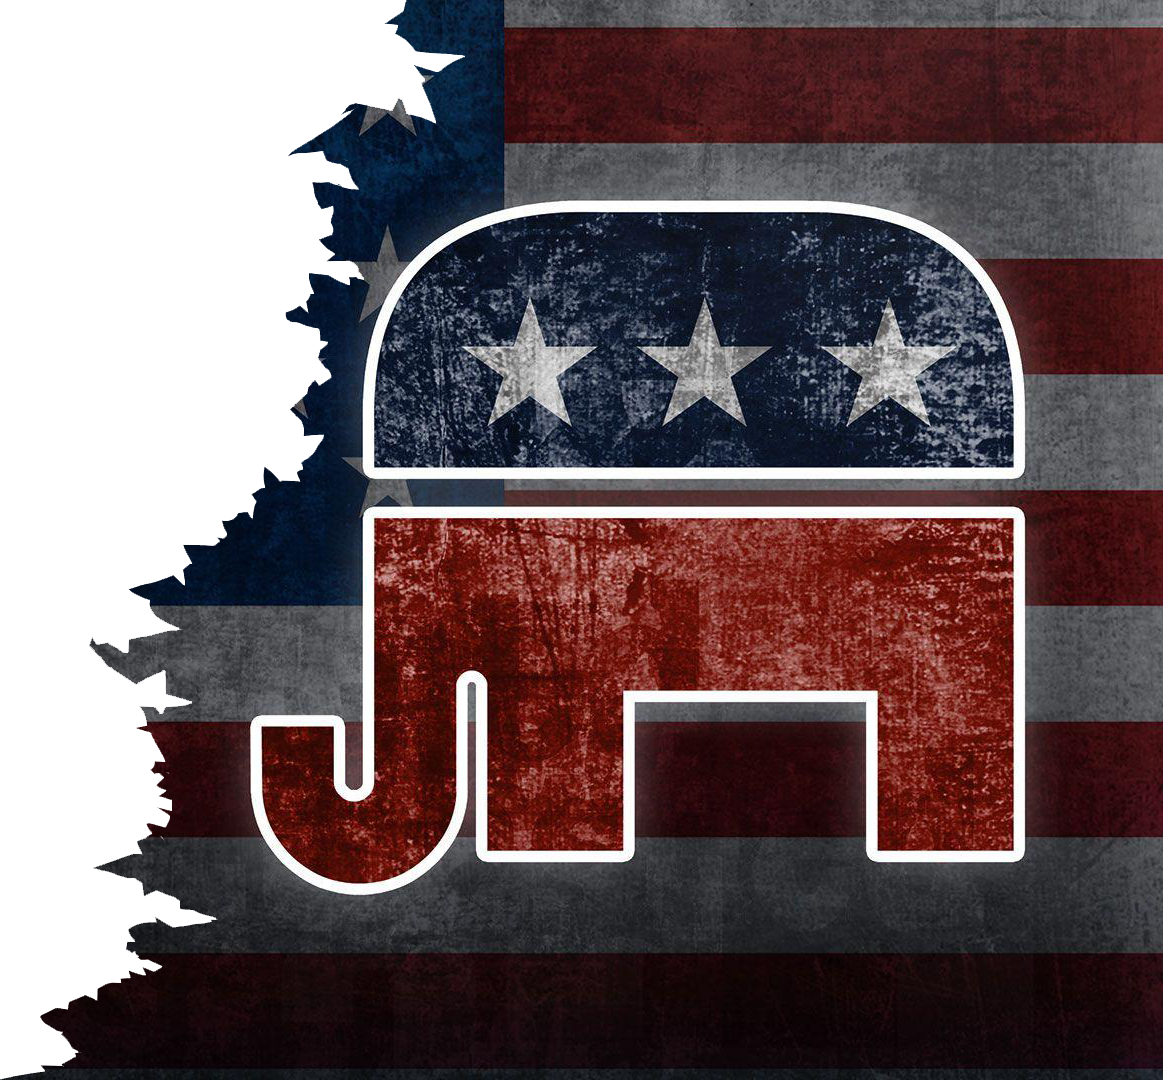
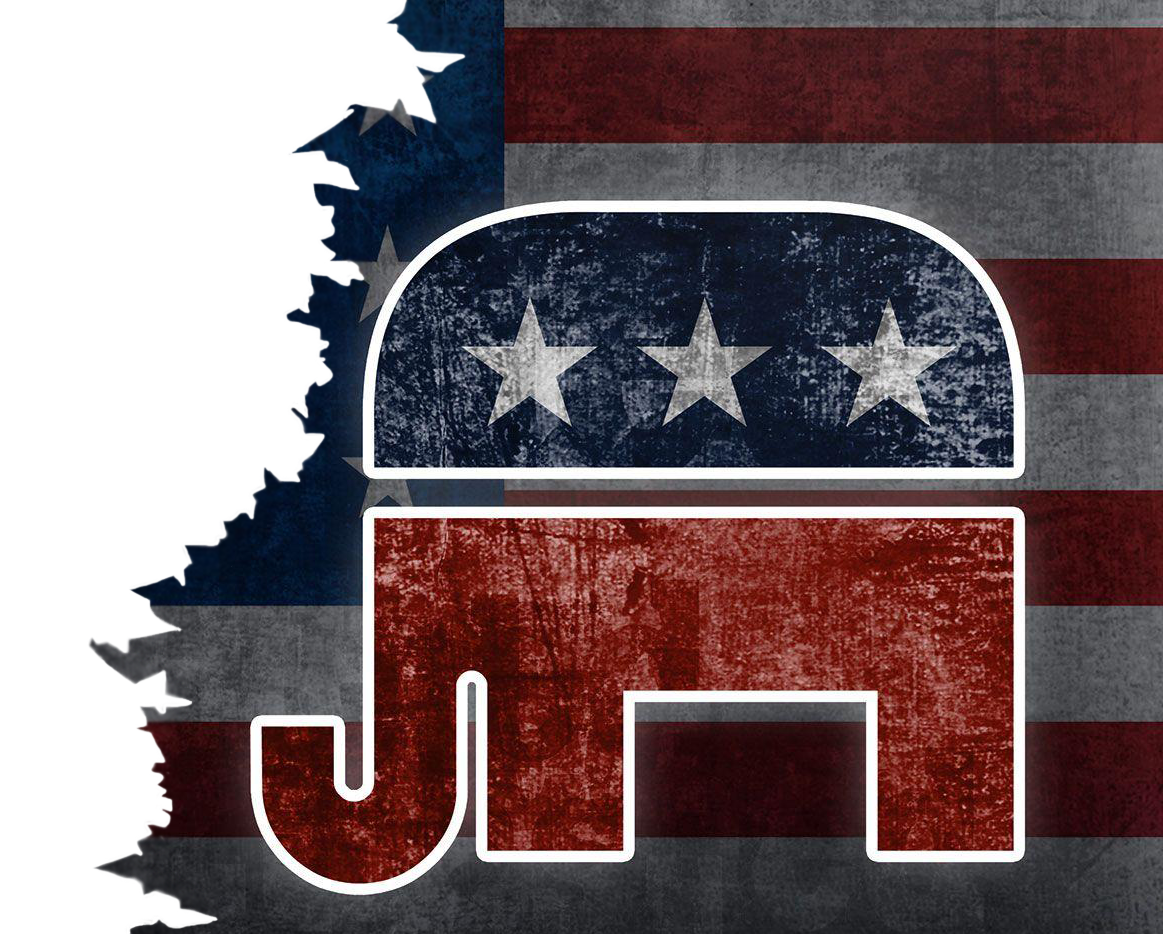
Various background changes

diff --git a/src/pages/App.jsx b/src/pages/App.jsx
@@ -5,50 +5,48 @@ import '../comps/Background'
 import Background from '../comps/Background'
 import { Parallax } from 'react-parallax';
 import democrats from '/democrats.png'
+import democrats_crop from '/democrats_cropped.png'
 import republicans from '/republicans.png'
 
 //TODO: https://www.framer.com/developers/guides/
 //TODO: https://mui.com/material-ui/react-typography/
 
 function App() {
-  const [count, setCount] = useState(0)
-
-  
 
   return (
     <>
-     <div className="navbar">
-          Navbar
-        </div>
+      <div className="navbar">
+      </div>
         <Background></Background>
-        <div className="background">
-          <img className="bg_left" src={democrats} ></img>
-          <img className="bg_right" src={republicans} ></img>
+      <div className="back">
+        <div className="left">
+          <img className="img_left" src={democrats_crop} ></img>
         </div>
-      <div className="App">
-      <h1 id="main_title">USA's political division</h1>
-        <div className='text1'>
-          <p>
-            The standard Lorem Ipsum passage, used since the 1500s
-            "Lorem ipsum dolor sit amet, consectetur adipiscing elit, sed do eiusmod tempor incididunt ut labore et dolore magna aliqua. Ut enim ad minim veniam, quis nostrud exercitation ullamco laboris nisi ut aliquip ex ea commodo consequat. Duis aute irure dolor in reprehenderit in voluptate velit esse cillum dolore eu fugiat nulla pariatur. Excepteur sint occaecat cupidatat non proident, sunt in culpa qui officia deserunt mollit anim id est laborum."
-          </p>
-          <p>
-            Section 1.10.32 of "de Finibus Bonorum et Malorum", written by Cicero in 45 BC
-            "Sed ut perspiciatis unde omnis iste natus error sit voluptatem accusantium doloremque laudantium, totam rem aperiam, eaque ipsa quae ab illo inventore veritatis et quasi architecto beatae vitae dicta sunt explicabo. Nemo enim ipsam voluptatem quia voluptas sit aspernatur aut odit aut fugit, sed quia consequuntur magni dolores eos qui ratione voluptatem sequi nesciunt. Neque porro quisquam est, qui dolorem ipsum quia dolor sit amet, consectetur, adipisci velit, sed quia non numquam eius modi tempora incidunt ut labore et dolore magnam aliquam quaerat voluptatem. Ut enim ad minima veniam, quis nostrum exercitationem ullam corporis suscipit laboriosam, nisi ut aliquid ex ea commodi consequatur? Quis autem vel eum iure reprehenderit qui in ea voluptate velit esse quam nihil molestiae consequatur, vel illum qui dolorem eum fugiat quo voluptas nulla pariatur?"
-          </p>
-          <p>
-            914 translation by H. Rackham
-            "But I must explain to you how all this mistaken idea of denouncing pleasure and praising pain was born and I will give you a complete account of the system, and expound the actual teachings of the great explorer of the truth, the master-builder of human happiness. No one rejects, dislikes, or avoids pleasure itself, because it is pleasure, but because those who do not know how to pursue pleasure rationally encounter consequences that are extremely painful. Nor again is there anyone who loves or pursues or desires to obtain pain of itself, because it is pain, but because occasionally circumstances occur in which toil and pain can procure him some great pleasure. To take a trivial example, which of us ever undertakes laborious physical exercise, except to obtain some advantage from it? But who has any right to find fault with a man who chooses to enjoy a pleasure that has no annoying consequences, or one who avoids a pain that produces no resultant pleasure?"
-          </p>
-          <p>
-            Section 1.10.33 of "de Finibus Bonorum et Malorum", written by Cicero in 45 BC
-            "At vero eos et accusamus et iusto odio dignissimos ducimus qui blanditiis praesentium voluptatum deleniti atque corrupti quos dolores et quas molestias excepturi sint occaecati cupiditate non provident, similique sunt in culpa qui officia deserunt mollitia animi, id est laborum et dolorum fuga. Et harum quidem rerum facilis est et expedita distinctio. Nam libero tempore, cum soluta nobis est eligendi optio cumque nihil impedit quo minus id quod maxime placeat facere possimus, omnis voluptas assumenda est, omnis dolor repellendus. Temporibus autem quibusdam et aut officiis debitis aut rerum necessitatibus saepe eveniet ut et voluptates repudiandae sint et molestiae non recusandae. Itaque earum rerum hic tenetur a sapiente delectus, ut aut reiciendis voluptatibus maiores alias consequatur aut perferendis doloribus asperiores repellat."
-          </p>
+        <div className="App">
+        <h1 id="main_title">USA's political division</h1>
+          <div className='text1'>
+            <p>
+              The standard Lorem Ipsum passage, used since the 1500s
+              "Lorem ipsum dolor sit amet, consectetur adipiscing elit, sed do eiusmod tempor incididunt ut labore et dolore magna aliqua. Ut enim ad minim veniam, quis nostrud exercitation ullamco laboris nisi ut aliquip ex ea commodo consequat. Duis aute irure dolor in reprehenderit in voluptate velit esse cillum dolore eu fugiat nulla pariatur. Excepteur sint occaecat cupidatat non proident, sunt in culpa qui officia deserunt mollit anim id est laborum."
+            </p>
+            <p>
+              Section 1.10.32 of "de Finibus Bonorum et Malorum", written by Cicero in 45 BC
+              "Sed ut perspiciatis unde omnis iste natus error sit voluptatem accusantium doloremque laudantium, totam rem aperiam, eaque ipsa quae ab illo inventore veritatis et quasi architecto beatae vitae dicta sunt explicabo. Nemo enim ipsam voluptatem quia voluptas sit aspernatur aut odit aut fugit, sed quia consequuntur magni dolores eos qui ratione voluptatem sequi nesciunt. Neque porro quisquam est, qui dolorem ipsum quia dolor sit amet, consectetur, adipisci velit, sed quia non numquam eius modi tempora incidunt ut labore et dolore magnam aliquam quaerat voluptatem. Ut enim ad minima veniam, quis nostrum exercitationem ullam corporis suscipit laboriosam, nisi ut aliquid ex ea commodi consequatur? Quis autem vel eum iure reprehenderit qui in ea voluptate velit esse quam nihil molestiae consequatur, vel illum qui dolorem eum fugiat quo voluptas nulla pariatur?"
+            </p>
+            <p>
+              914 translation by H. Rackham
+              "But I must explain to you how all this mistaken idea of denouncing pleasure and praising pain was born and I will give you a complete account of the system, and expound the actual teachings of the great explorer of the truth, the master-builder of human happiness. No one rejects, dislikes, or avoids pleasure itself, because it is pleasure, but because those who do not know how to pursue pleasure rationally encounter consequences that are extremely painful. Nor again is there anyone who loves or pursues or desires to obtain pain of itself, because it is pain, but because occasionally circumstances occur in which toil and pain can procure him some great pleasure. To take a trivial example, which of us ever undertakes laborious physical exercise, except to obtain some advantage from it? But who has any right to find fault with a man who chooses to enjoy a pleasure that has no annoying consequences, or one who avoids a pain that produces no resultant pleasure?"
+            </p>
+            <p>
+              Section 1.10.33 of "de Finibus Bonorum et Malorum", written by Cicero in 45 BC
+              "At vero eos et accusamus et iusto odio dignissimos ducimus qui blanditiis praesentium voluptatum deleniti atque corrupti quos dolores et quas molestias excepturi sint occaecati cupiditate non provident, similique sunt in culpa qui officia deserunt mollitia animi, id est laborum et dolorum fuga. Et harum quidem rerum facilis est et expedita distinctio. Nam libero tempore, cum soluta nobis est eligendi optio cumque nihil impedit quo minus id quod maxime placeat facere possimus, omnis voluptas assumenda est, omnis dolor repellendus. Temporibus autem quibusdam et aut officiis debitis aut rerum necessitatibus saepe eveniet ut et voluptates repudiandae sint et molestiae non recusandae. Itaque earum rerum hic tenetur a sapiente delectus, ut aut reiciendis voluptatibus maiores alias consequatur aut perferendis doloribus asperiores repellat."
+            </p>
 
-          <p>
-            1914 translation by H. Rackham
-            "On the other hand, we denounce with righteous indignation and dislike men who are so beguiled and demoralized by the charms of pleasure of the moment, so blinded by desire, that they cannot foresee the pain and trouble that are bound to ensue; and equal blame belongs to those who fail in their duty through weakness of will, which is the same as saying through shrinking from toil and pain. These cases are perfectly simple and easy to distinguish. In a free hour, when our power of choice is untrammelled and when nothing prevents our being able to do what we like best, every pleasure is to be welcomed and every pain avoided. But in certain circumstances and owing to the claims of duty or the obligations of business it will frequently occur that pleasures have to be repudiated and annoyances accepted. The wise man therefore always holds in these matters to this principle of selection: he rejects pleasures to secure other greater pleasures, or else he endures pains to avoid worse pains."
-          </p>
+            <p>
+              1914 translation by H. Rackham
+              "On the other hand, we denounce with righteous indignation and dislike men who are so beguiled and demoralized by the charms of pleasure of the moment, so blinded by desire, that they cannot foresee the pain and trouble that are bound to ensue; and equal blame belongs to those who fail in their duty through weakness of will, which is the same as saying through shrinking from toil and pain. These cases are perfectly simple and easy to distinguish. In a free hour, when our power of choice is untrammelled and when nothing prevents our being able to do what we like best, every pleasure is to be welcomed and every pain avoided. But in certain circumstances and owing to the claims of duty or the obligations of business it will frequently occur that pleasures have to be repudiated and annoyances accepted. The wise man therefore always holds in these matters to this principle of selection: he rejects pleasures to secure other greater pleasures, or else he endures pains to avoid worse pains."
+            </p>
+          </div>
         </div>
       </div>
         

diff --git a/src/css/App.css b/src/css/App.css
@@ -8,9 +8,39 @@
 
   text-align: center;
   justify-content: center;
-  background-color: gray;
+  background-color: rgb(255, 255, 255);
   margin: auto;
   padding: 20px;
+  z-index: 1;
+  -webkit-box-shadow: 0px 0px 24px -3px rgba(0,0,0,0.73); 
+box-shadow: 0px 0px 24px -3px rgba(0,0,0,0.73);
+}
+
+.back{
+  background-color: gray;
+  height: 100%;
+  width: 100%;
+  position: relative;
+  z-index: -1;
+  display: flex;
+  justify-content: center;
+  align-items: center;
+}
+
+.left{
+  position: absolute;
+  left: 0;
+  top: 0;
+  width: 25%;
+  height: 100%;
+  background-color: #000;
+  z-index: -1;
+}
+.img_left{
+  position: relative;
+  z-index: -1;
+  object-fit: cover;
+  max-height: fit-content;
 }
 
 .navbar{
@@ -18,16 +48,13 @@
   top: 0;
   text-align: center;
   display: flex;
-  padding: 2rem;
+  padding: 2.8rem;
   background-color: black;
   background: rgb(29,56,205);
   background: linear-gradient(110deg, rgb(36, 61, 203) 0%, rgb(0, 0, 0) 59%, rgb(196, 37, 37) 100%);
   max-width: 100%;
   flex-wrap: nowrap;
   box-shadow: 0px 10px 5px rgba(0, 0, 0, 0.467);
-}
-
-.text1{
 }
 
 .background{

diff --git a/src/css/Background.css b/src/css/Background.css
@@ -6,24 +6,13 @@
     max-width: 100%;
     background-color: black;
 }
-.left{
-    /*
-    background-image: url("./assets/democrats.png");
-    background-repeat: no-repeat;*/
+.bg_left{
     height: 100vh;
-    width: 50%;
-    
+    width: 49%;
 }
-.right{
-    /*
-    background-image: url("./assets/republicans.png");
-    background-repeat: no-repeat; 
-    background-position: top right;*/
+.bg_right{
     height: 100vh;
-    width: 50%;
-    
-   
-   align-content: right;
+    width: 51%;
    display: flex;
    justify-content: right;
 }

diff --git a/src/comps/Background.jsx b/src/comps/Background.jsx
@@ -8,8 +8,8 @@ function Background() {
     return(
         <>
         <div className='bg-container'>
-            <img className="left" src={democrats} ></img>
-            <img className="right" src={republicans} ></img>
+            <img className="bg_left" src={democrats} ></img>
+            <img className="bg_right" src={republicans} ></img>
         </div>
         </>
     )

diff --git a/src/index.css b/src/index.css
@@ -5,8 +5,8 @@
   font-weight: 400;
 
   color-scheme: light dark;
-  color: rgba(255, 255, 255, 0.87);
-  background-color: #242424;
+  color: rgb(0, 0, 0);
+  background-color: #ffffff;
 
   font-synthesis: none;
   text-rendering: optimizeLegibility;
@@ -16,5 +16,5 @@
 }
 
 body{
-  margin: 0;
+  margin: auto;
 }
